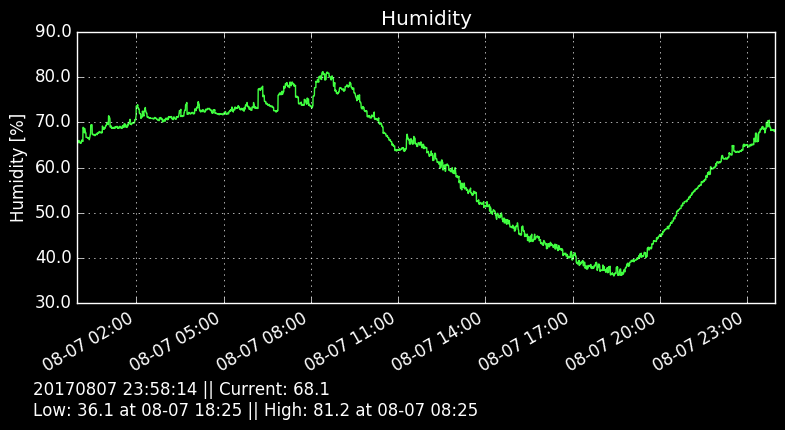
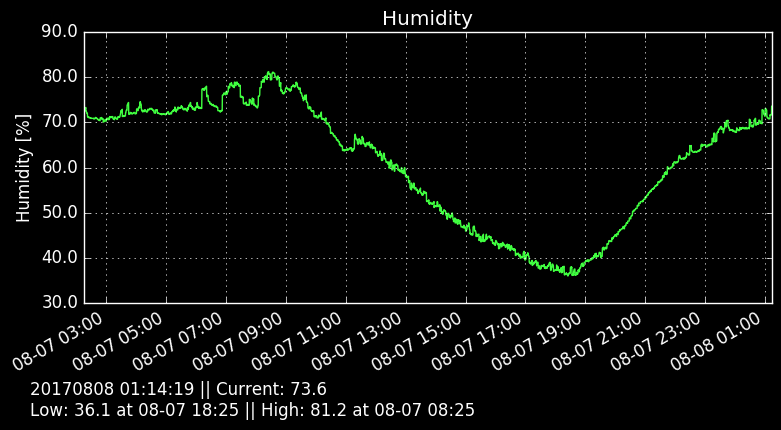
final commit of the night

diff --git a/jsTest.html b/jsTest.html
@@ -30,22 +30,23 @@ a {
 
 
 <body onload="pageTimer(); pageClock(); calculateLST();" bgcolor="black">
-    <h2>
+    <h1>
         <center><font color="darkviolet">Hermitage Weather Station - Release 0.3</font></center>
-    </h2>
+    </h1>
     <font color="white">
     <pre id="dataDump"><pre>
-    <p id="sortedDat">Sorted data goes here</p>
-    <p id="time">Current time: Unknown</p>
-    <p id="utc_clock">Current UTC: Unknown</p>
-    <p id="lst_clock">Current LST: Unknown</p>
-    <hr>
-    <p id="timestamp">Data current as of: Unknown</p>
-    <table style="width:100%" border="0" cellpadding=0 cellspacing=20>
+    <table style="width:100%" border="0" cellpadding=1 cellspacing=20>
     <tr>
-        <th>Basic Data</th>
-	<th>Wind Data</th>
+        <td>
+	<p id="time">Current time: Unknown</p>
+	<p id="timestamp">Data current as of: Unknown</p>
+	</td>
+	<td>
+	<p id="utc_clock">Current UTC: Unknown</p>
+	<p id="lst_clock">Current LST: Unknown</p>
+	</td>
     </tr>
+    <hr>
     <tr>
 	<td>
 	<p id="temp"><a href="tempf.png">Temp [F]: Unavailable</a></p>
@@ -67,7 +68,6 @@ a {
 	<p id="pressure"><a href="pressure.png">Atmospheric Pressure [atm]: Unavailable</a></p>
 	<p id="maxPrs"><a href="pressure.png">Max Pressure [atm]: Unavailable</a></p>
 	</td>
-        <td></td>
     </tr>
 
     </table>
@@ -75,6 +75,7 @@ a {
 <center>
 Data will auto-refresh every 30 seconds<br><br>
 </center>
+<p id="sortedDat">Sorted data goes here</p>
 </font>
 </body>
 </html>

diff --git a/weather.js b/weather.js
@@ -30,6 +30,7 @@ function pageClock()
     var d = today.getDate();
     if (d < 10){ d = "0"+d }
     var h = today.getHours();
+    if (h < 10){ h = "0"+h }
     var m = today.getMinutes();
     var s = today.getSeconds();
     m = checkTime(m);

diff --git a/plotWeather_test.py b/plotWeather_test.py
@@ -17,7 +17,7 @@ import traceback
 class WeatherPlot():
     def __init__(self):
 	self.wi = WeatherInterface()
-	self.plotTime = 24		#Length of data plot, in hours - DO NOT EXCEED 24
+	self.plotTime = 23		#Length of data plot, in hours - DO NOT EXCEED 24
 
 	self.sensorKeys = [
         'winddir_avg2m',
